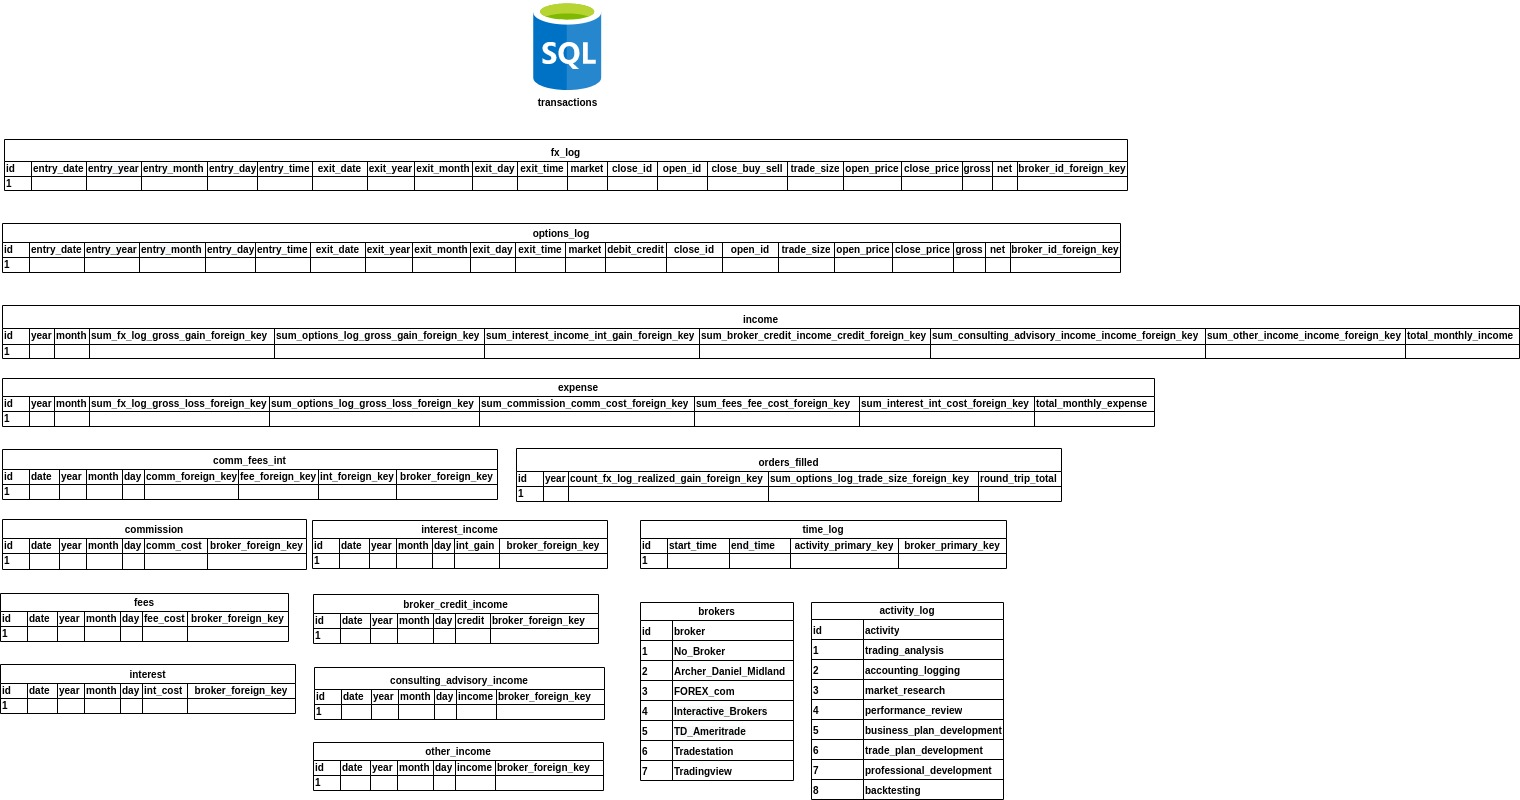
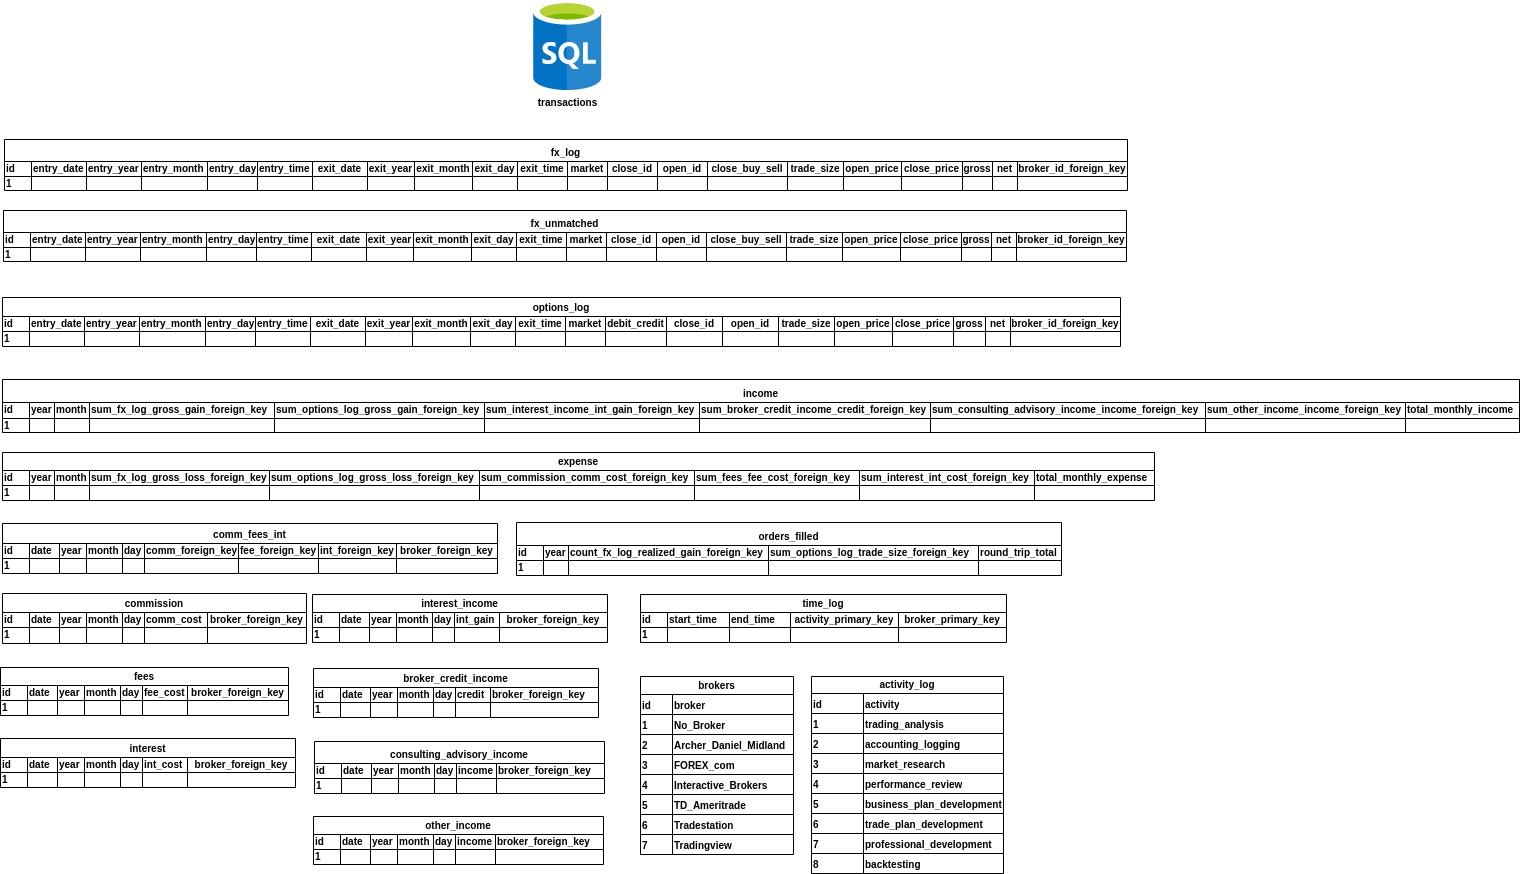
began the process to identify, extract, and export the unmatched transactions from the fx data; added a table fx_unmatched to the database; next work on the fx_dev_mode.py to extract the rows with unmatched only open_ids and export it into the logs_metrics_app_dev_mode.py app

Changed region(s): [[0.0, 0.0, 1.0, 1.0]]

diff --git a/logs_metrics_app_dev_mode.py b/logs_metrics_app_dev_mode.py
@@ -9,6 +9,11 @@ if __name__ == "__main__":
 else:
     print('database module is being imported into the app module')
 
+# connect to the database
+import sqlite3
+conn = sqlite3.connect('transactions_dev_mode.db')
+cur = conn.cursor()
+
 ################################# BROKER / ACTIVITY TABLES #########################
 # bk_name = [
 #             (1, 'No_Broker'),
@@ -68,24 +73,34 @@ else:
 # database_dev_mode.fx_log_add_many(log_entry)
 # print("---------------successfully added fx_log records to the db------------------\n")
 # database_dev_mode.fx_log_show_all()
+
+
+### START HERE NEXT ###
+## process ##
+# 1) import unmatched records from fx_dev_mode.py via a function
+#  - unmatched records consists of records with only open_id
+#  - unmatched records consists of records with both close_id and open_id
+
+# 2) export the unmatched records into the fx_unmatched table
+#  - export the unmatched rows via tha database_dev_mode.[function name]
+
+# 3) query the fx_log table for matching open_ids
+#  - returned rows consists of the following:
+#  - opening transactions with the entry dates and open_ids
+#  - closing transactions with the exit dates and both close_id and open_ids
+
+# 4) insert the entry YYYY-MM-DD HH:MM, YY, MM, DD, HH:MM into the matched row
+#  - identify rows with matching open_ids (there should only be two rows)
+#  - insert the entry YYYY-MM-DD HH:MM, YY, MM, DD, HH:MM into the closing transaction row
+#  - the insert is accomplished via an SQL INSERT statement via the database_dev_mode.[function_name]
+
+
+
+
+
 ################################# ADD fx_log RECORDS #######################################
 
-################################# DELETE RECORDS #######################################
-### problem: if you delete record "1" repeatedly it will not delete all of the records...
-### ... in other words the rowid may say "1" but the original record is row "5" and it will not delete
-# delete time_log record
-# database_dev_mode.time_log_delete_one(3)
-# print("---------------successfully deleted record to the db------------------\n")
-# database_dev_mode.time_log_show_all()
-################################# DELETE RECORDS #######################################
-
-
 ############################## QUERY THE DATABASE ##################################
-# connect to the database
-import sqlite3
-conn = sqlite3.connect('transactions_dev_mode.db')
-cur = conn.cursor()
-
 ######  query the time_log table ######
 # print("\n----------test result: successful------------")
 # data = cur.execute('''

diff --git a/fx_dev_mode.py b/fx_dev_mode.py
@@ -25,7 +25,7 @@ broker_id = int(input("enter the broker_id from the database (2-7): "))
 #         break
 filename = input("enter the .csv filename: ")
 if filename == '':
-    filename = 'fx_oct_test.csv'
+    filename = 'fx_sept_test.csv'
 with open(filename, newline='') as csvfile:
     reader = csv.reader(csvfile)
     # next(csvfile) # removes the header - comment out if .csv file has no header
@@ -400,9 +400,14 @@ for entry, exit, market, close_id, open_id, buy_sell, trade_size, open, close, g
 
 
 ### START HERE NEXT ###
-### next task: missing transaction items
-# create a new table in the database to upload missing transaction items
-# write new code in the database_dev_mode.py and logs_metrics_app_dev_mode.py app
-# I want to be able to query the database for missing transaction_id, and.....
-# if there are matching open_ids then grab the entry date from the table and...
-# add the entry date to the row with the matched closed / open transaction id.
+############################ export unmatched records #########################
+## process ##
+# 1) fx_dev_mode.py identifies the unmatched record open_ids,
+# 2) fx_dev_mode.py formats and extracts the unmatched record
+# 3) fx_dev_mode.py exports the unmatched records into logs_metrics_app_dev_mode.py
+
+# fxlst is the original list
+for row in fxlst:
+    print(row)
+
+############################ export unmatched records #########################

diff --git a/database_dev_mode.py b/database_dev_mode.py
@@ -8,6 +8,7 @@ cur = conn.cursor()
 # cur.execute("DROP TABLE IF EXISTS brokers")
 # cur.execute("DROP TABLE IF EXISTS time_log")
 # cur.execute("DROP TABLE IF EXISTS fx_log")
+# cur.execute("DROP TABLE IF EXISTS fx_unmatched")
 cur.executescript('''
 CREATE TABLE IF NOT EXISTS brokers(
     broker_id INTEGER NOT NULL PRIMARY KEY,
@@ -52,7 +53,33 @@ CREATE TABLE IF NOT EXISTS fx_log(
     broker_id INTEGER NOT NULL,
     FOREIGN KEY(broker_id) REFERENCES brokers (broker_id)
         ON UPDATE CASCADE
+    );
+
+CREATE TABLE IF NOT EXISTS fx_unmatched(
+    entry_date TEXT,
+    entry_year INTEGER,
+    entry_month INTEGER,
+    entry_day INTEGER,
+    entry_time TEXT,
+    exit_date TEXT,
+    exit_year INTEGER,
+    exit_month INTEGER,
+    exit_day INTEGER,
+    exit_time TEXT,
+    market TEXT NOT NULL,
+    close_id INTEGER UNIQUE,
+    open_id INTEGER NOT NULL,
+    close_buy_sell TEXT,
+    trade_size INTEGER NOT NULL,
+    open_price REAL,
+    close_price REAL,
+    gross REAL,
+    net REAL,
+    broker_id INTEGER NOT NULL,
+    FOREIGN KEY(broker_id) REFERENCES brokers (broker_id)
+        ON UPDATE CASCADE
     )
+
 ''')
 print("---------------------table creation successful----------------------")
 # brokers_table_functions
